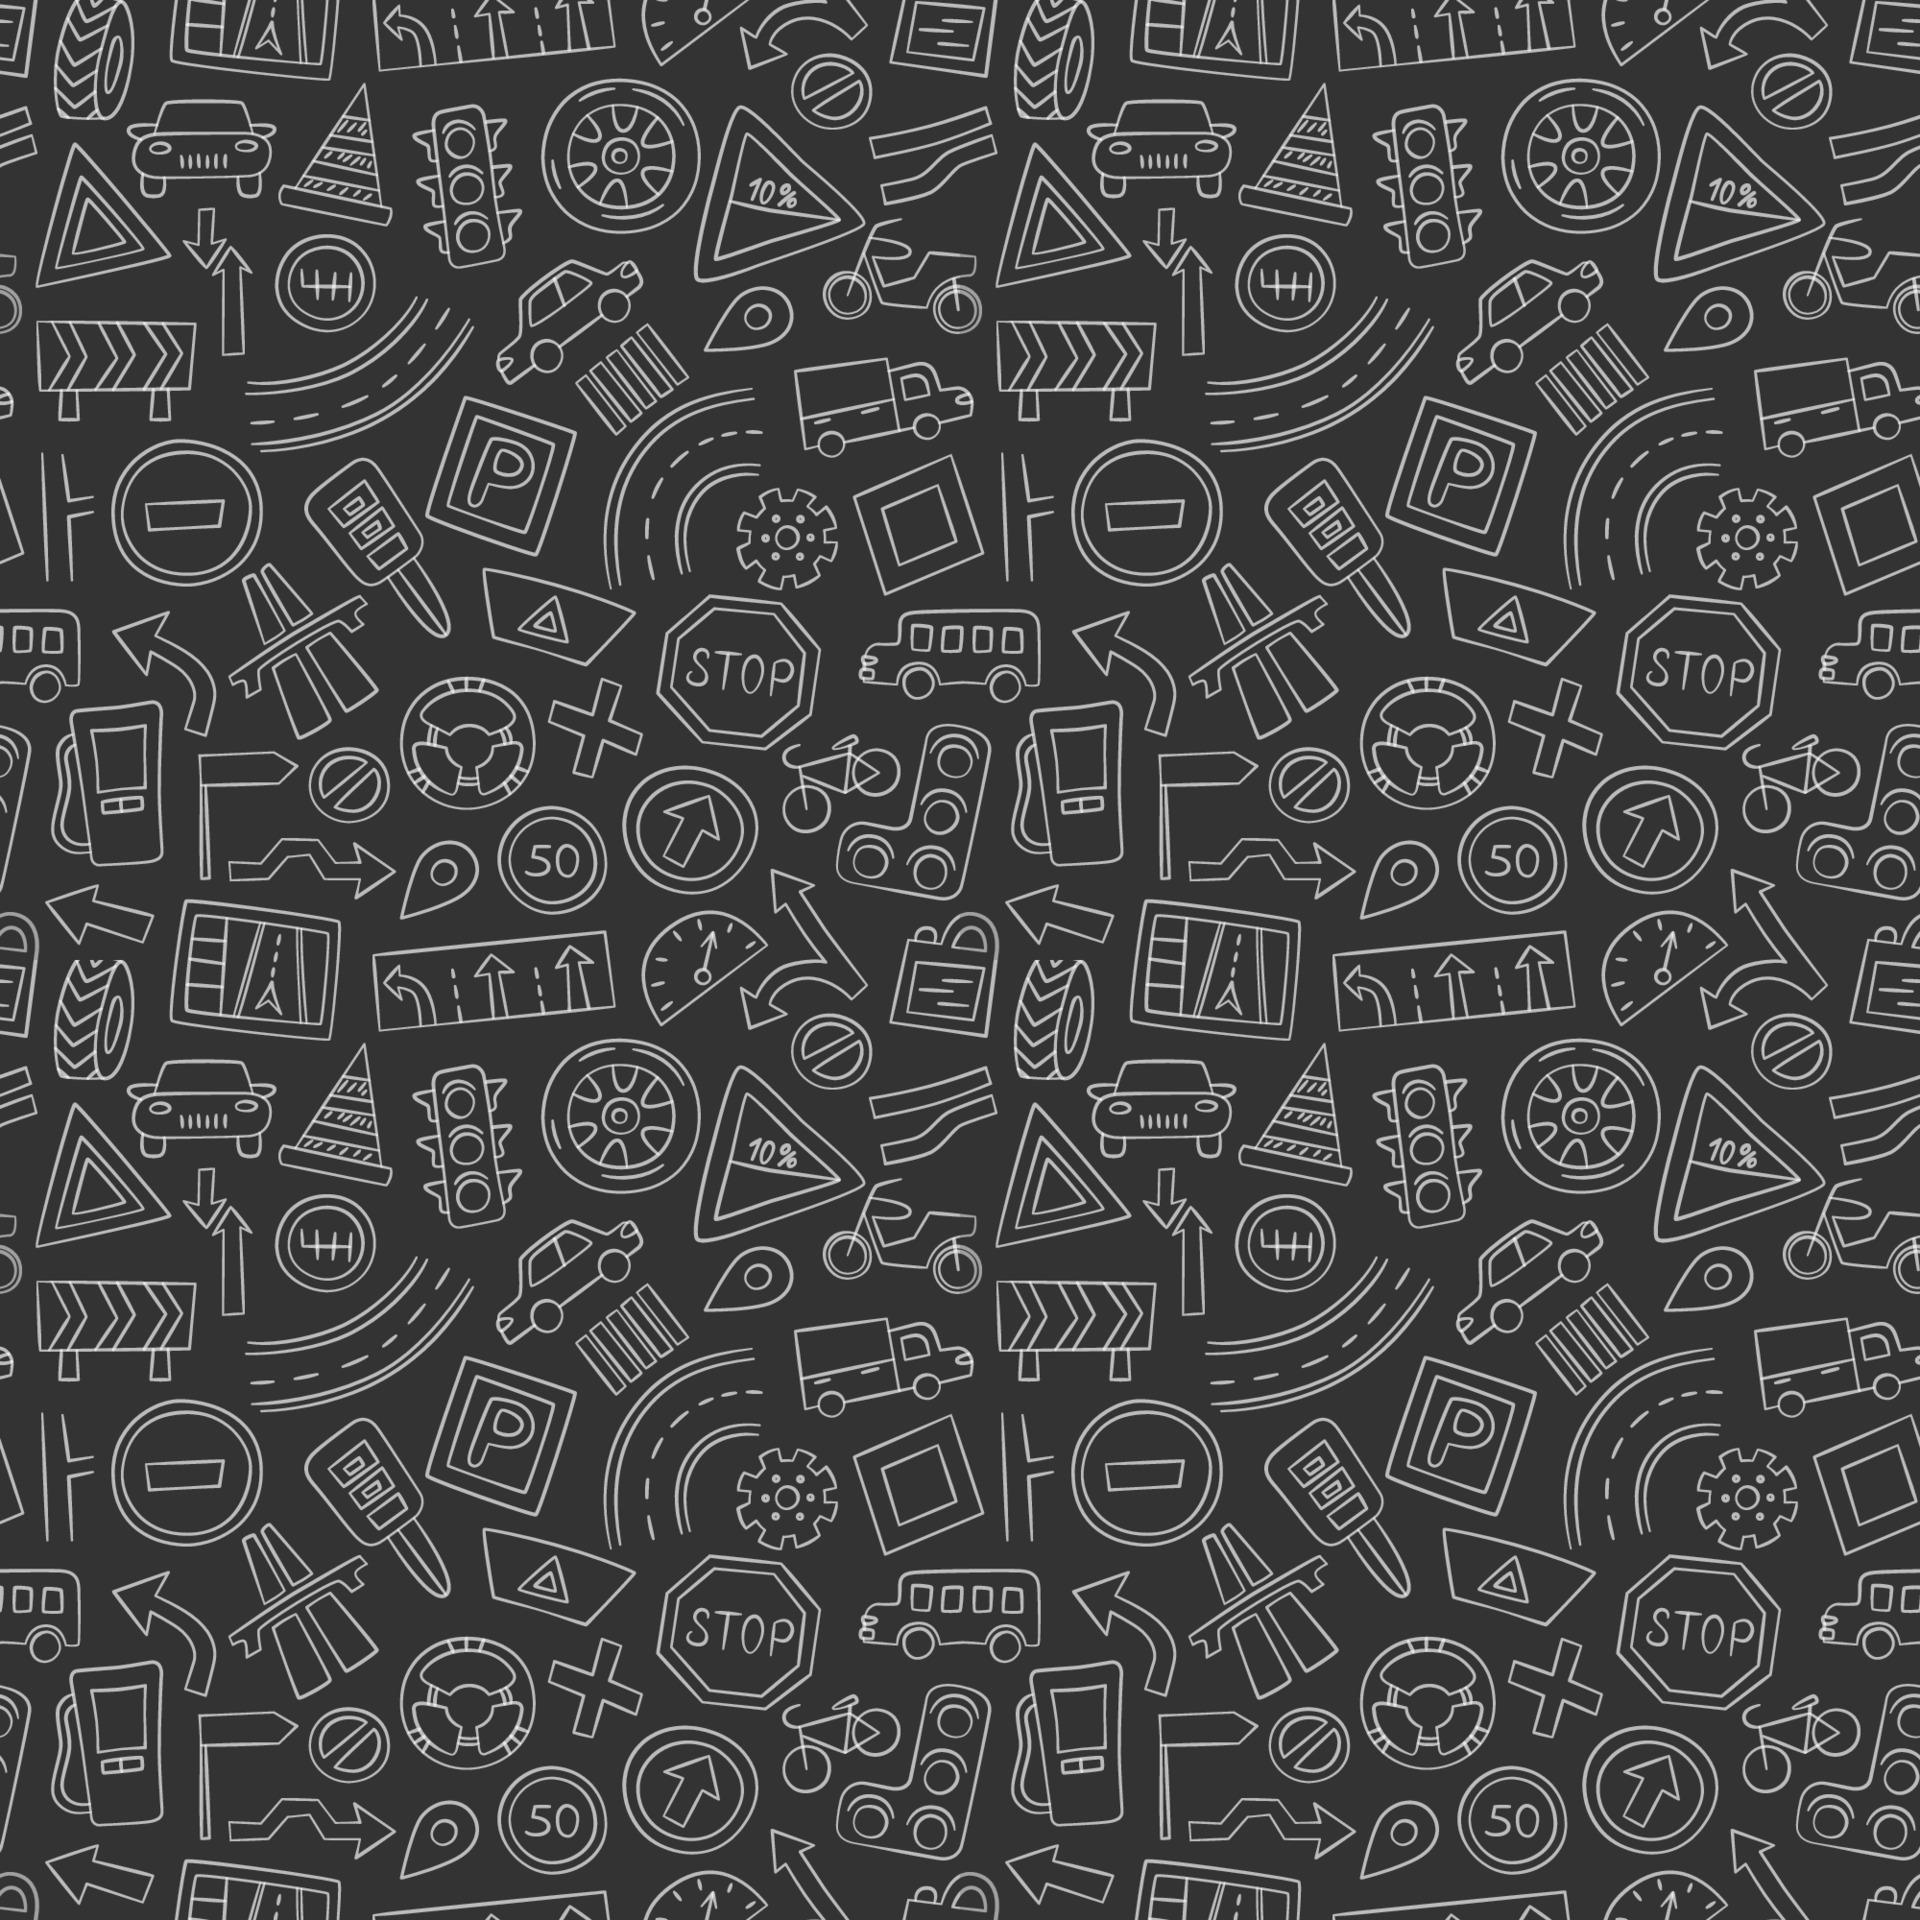
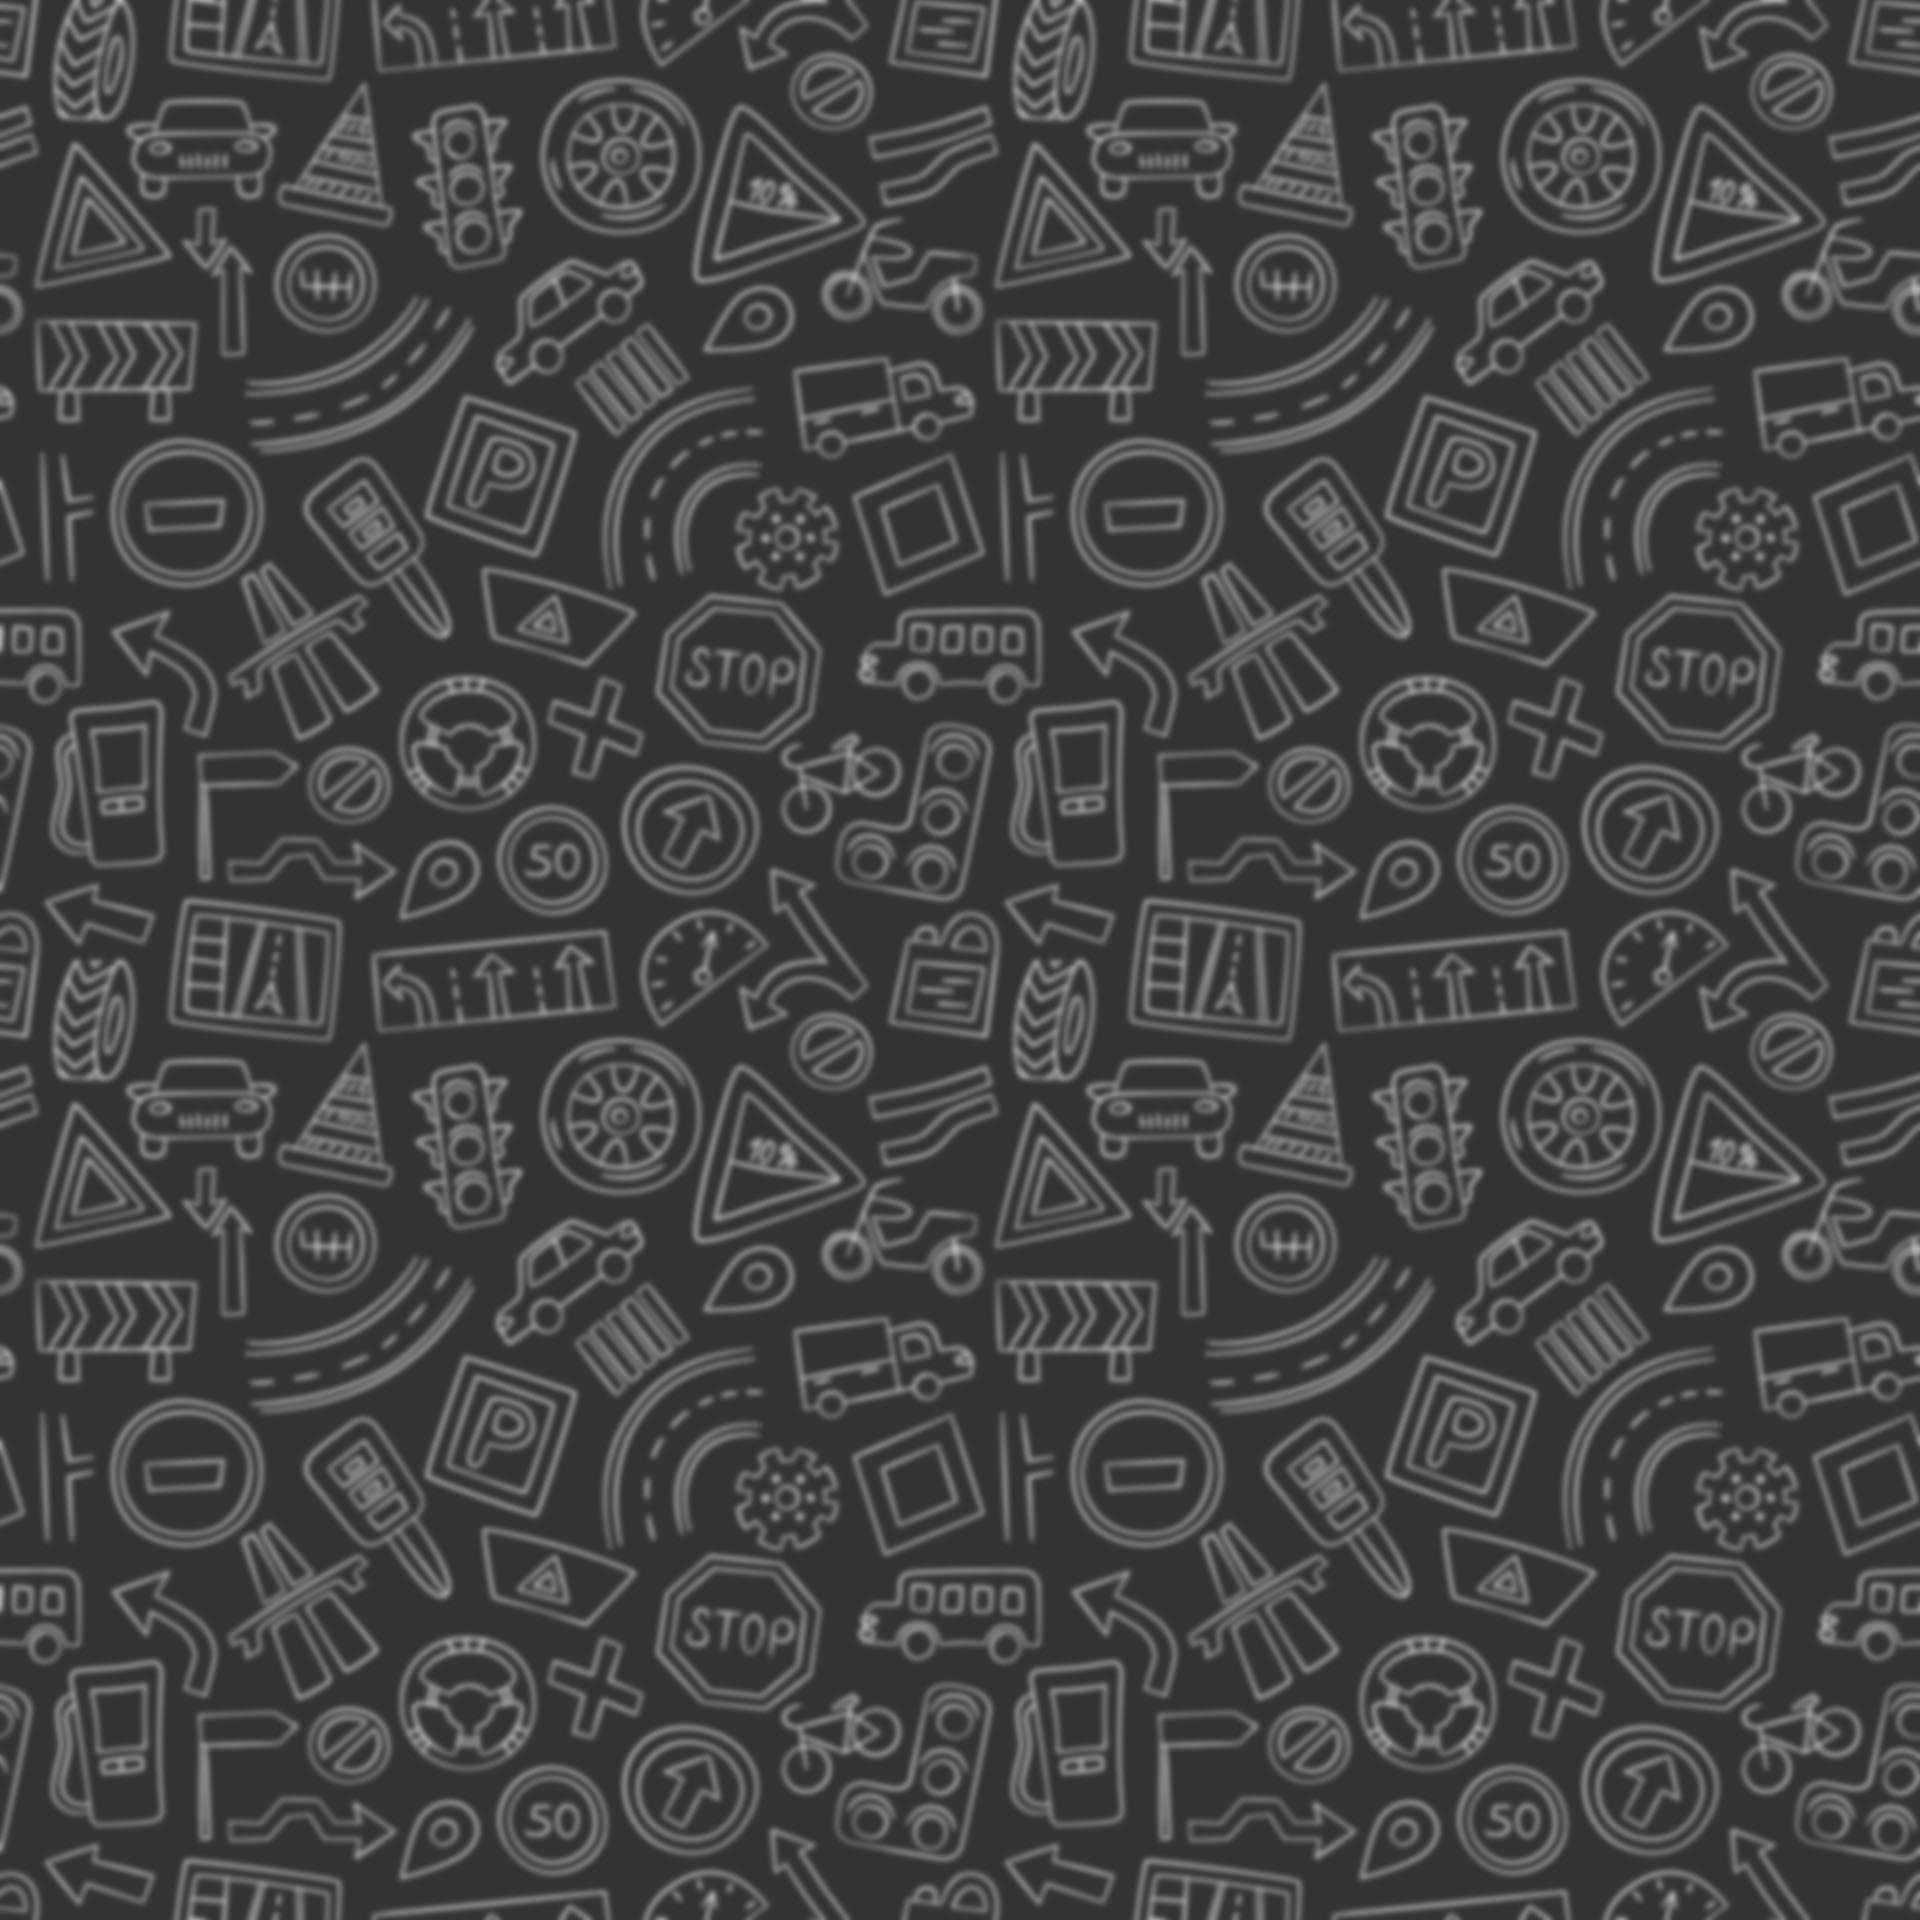
Background blur

Changed region(s): [[0.0, 0.0, 1.0, 1.0]]

diff --git a/index.html b/index.html
@@ -52,11 +52,11 @@
                          Wayne has always had a passion for cars, which inspired him to pursue a career as a driving instructor. He was aware that as time went on, the dangers on the roads kept increasing, and he wanted to help bring about a change in how people are taught. He is now engaging in a brand-new, exciting venture after years of experience. 
                          <br><br>Now that he is the owner of Wayne's Driving Academy, he has set high standards for his students, ensuring that they would be distinguished from the rest through their driving knowledge and abilities. Our goal is for all of our students to pass on their first attempt and set a good example for other drivers for a risk-free driving experience.</h3>                
                 </div>
-                <div class="align-items-center text-center">
+                <!-- <div class="align-items-center text-center">
                     <iframe src="https://www.facebook.com/plugins/page.php?href=https%3A%2F%2Fwww.facebook.com%2Fprofile.php%3Fid%3D100086949115887&tabs=timeline&width=340&height=500&small_header=false&adapt_container_width=true&hide_cover=false&show_facepile=true&appId" width="340" height="500" style="border:none; overflow:hidden; width:400px; background: white; float:center; " scrolling="no" frameborder="0" allowfullscreen="true"></iframe>
                     <img class="img-fluid mx-auto d-block" src="assets/img/newyear.jpg" alt="New Years Post"><br>
                     <h3 class="section-subheading text-muted">From all of us at Wayne Driving Academy, happy new year! 🎊 🎉 2022 was a successful year that was full of excitement. We take great pride in having helped so many wonderful people drive safely and responsibly in Malta. In 2023, we look forward to welcoming new driving pupils. May this year be the one where we work together and embrace success!😊🙏</h3>
-                 </div>
+                 </div> -->
             </div>
         </section>
         <!-- Team-->
@@ -136,7 +136,7 @@
         <footer class="footer py-4">
             <div class="container">
                 <div class="row align-items-center">
-                    <div class="col-lg-4 text-lg-start">Copyright &copy; Wayne Driving Academy 2023</div>
+                    <div class="col-lg-4 text-lg-start">Copyright &copy; Wayne Driving Academy 2025</div>
                 </div>
             </div>
         </footer>
